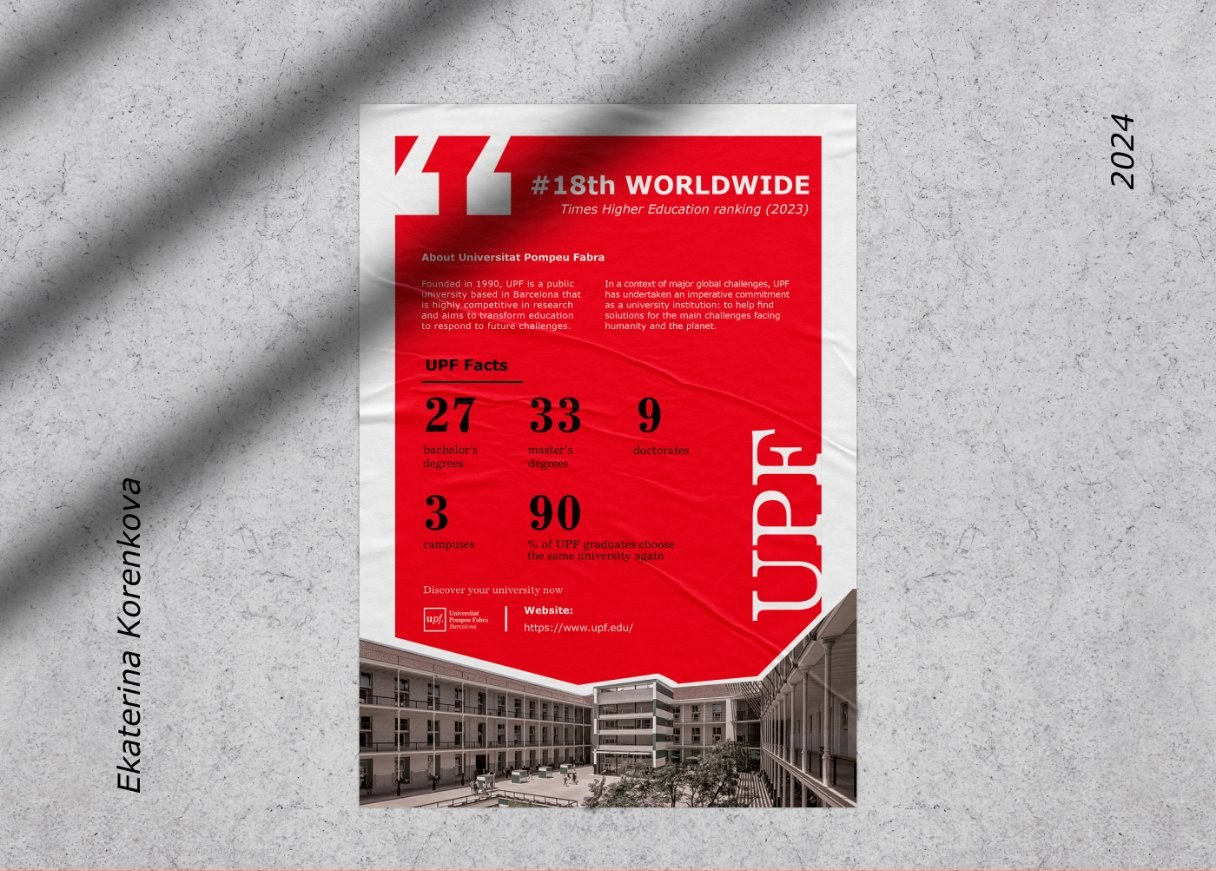
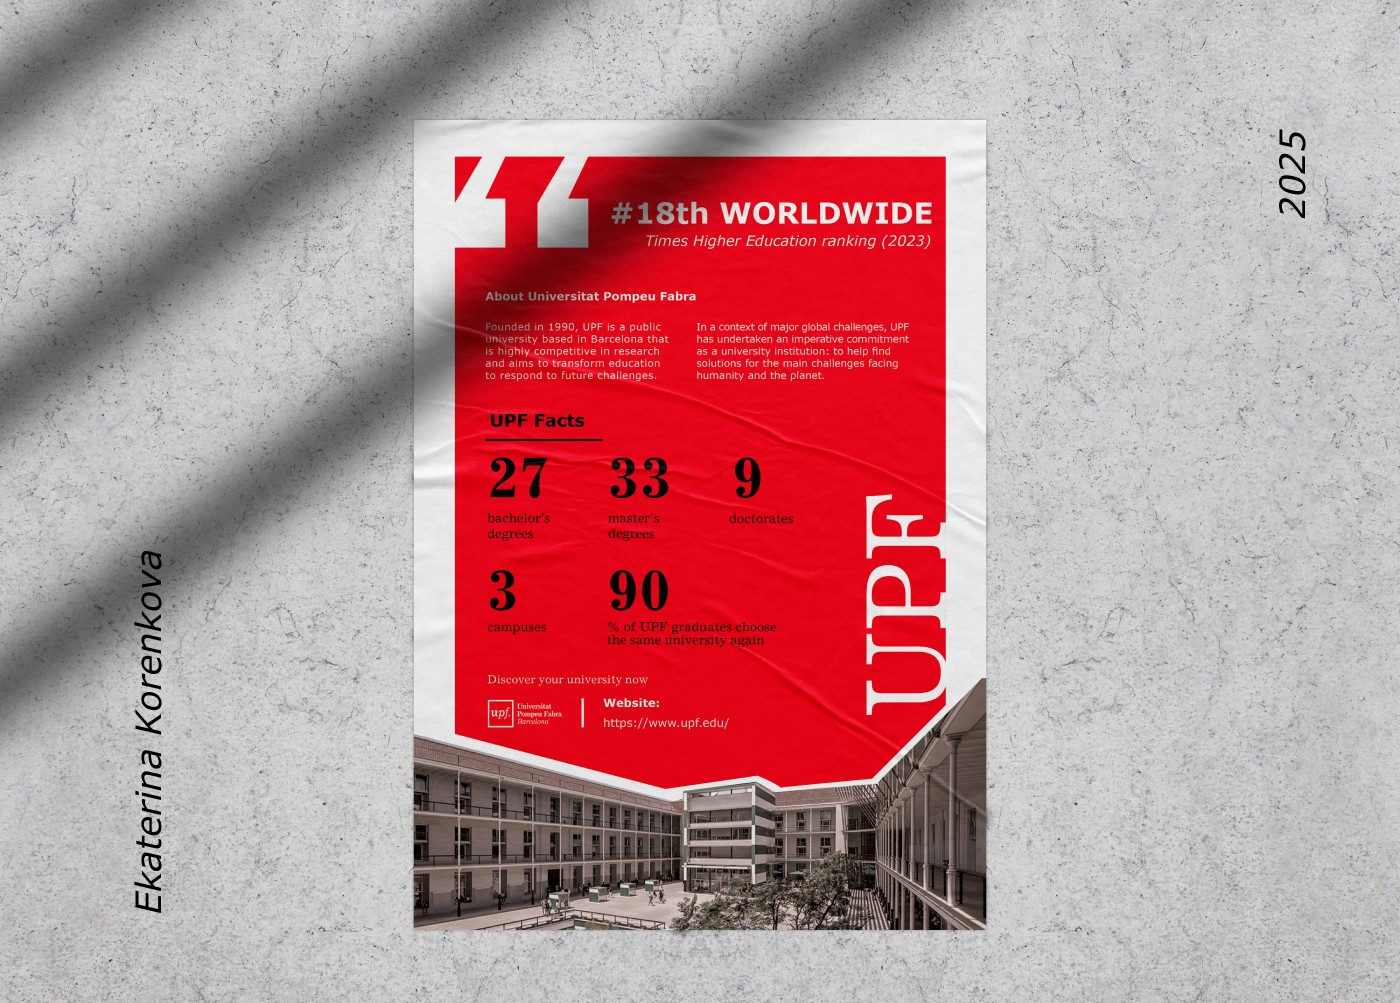
Update case year to 2025 and replace hero image
Claude-Session: https://claude.ai/code/session_01NXXDg6GyFD3ZBfGWdX4qSD

Changed region(s): [[0.0, 0.992, 1.0, 1.0], [0.9062, 0.124, 0.9375, 0.155]]

diff --git a/index.html b/index.html
@@ -369,7 +369,7 @@ var T = {
     chips: ["Redes sociales", "Google Ads", "Meta Ads", "Relaciones públicas", "Copywriting", "Newsletters", "Blog", "Estrategia de marketing", "Analítica", "ROI"],
     labelClients: "Para quién trabajo",
     labelWork: "Proyectos", workTitle: "Trabajos reales para negocios reales",
-    upf: {"cardTitle": "Póster para la Universitat Pompeu Fabra", "cardDesc": "Diseño de un póster que presenta la universidad y la promociona entre futuros estudiantes, fiel a su identidad de marca.", "link": "Ver caso", "kicker": "Caso · Diseño gráfico", "close": "Cerrar", "title": "Un póster universitario para la Universitat Pompeu Fabra", "meta": [["Proyecto", "Póster universitario"], ["Año", "2024"], ["Diseño", "Ekaterina Korenkova"]], "about": "Sobre el proyecto", "obj": "El objetivo de este proyecto era crear una breve ficha informativa sobre la Universitat Pompeu Fabra de Barcelona que aumentara su notoriedad y la promocionara entre posibles estudiantes.", "brand": "Los colores y la tipografía se eligieron según el manual de marca para encajar con su identidad y reforzar el reconocimiento de marca.", "goals": ["Defender la identidad de marca de la universidad", "Atraer a futuros estudiantes"], "type": "Tipografía y color", "colorLabel": "Paleta de color", "refs": "Referencias", "poster": "Póster final", "mock": "Mockups", "ph": "Imagen", "credit": "Diseño de Ekaterina Korenkova, 2024"},
+    upf: {"cardTitle": "Póster para la Universitat Pompeu Fabra", "cardDesc": "Diseño de un póster que presenta la universidad y la promociona entre futuros estudiantes, fiel a su identidad de marca.", "link": "Ver caso", "kicker": "Caso · Diseño gráfico", "close": "Cerrar", "title": "Un póster universitario para la Universitat Pompeu Fabra", "meta": [["Proyecto", "Póster universitario"], ["Año", "2025"], ["Diseño", "Ekaterina Korenkova"]], "about": "Sobre el proyecto", "obj": "El objetivo de este proyecto era crear una breve ficha informativa sobre la Universitat Pompeu Fabra de Barcelona que aumentara su notoriedad y la promocionara entre posibles estudiantes.", "brand": "Los colores y la tipografía se eligieron según el manual de marca para encajar con su identidad y reforzar el reconocimiento de marca.", "goals": ["Defender la identidad de marca de la universidad", "Atraer a futuros estudiantes"], "type": "Tipografía y color", "colorLabel": "Paleta de color", "refs": "Referencias", "poster": "Póster final", "mock": "Mockups", "ph": "Imagen", "credit": "Diseño de Ekaterina Korenkova, 2025"},
     work: { ph: "Imagen del proyecto", title: "Nombre del proyecto", desc: "Descripción breve del proyecto: el reto, lo que se hizo y el resultado.", link: "Ver proyecto", prev: "Anterior", next: "Siguiente" },
     cards: [
       ["Pymes y autónomos", "Barcelona y su área metropolitana"],
@@ -420,7 +420,7 @@ var T = {
     chips: ["Social media", "Google Ads", "Meta Ads", "Public relations", "Copywriting", "Newsletters", "Blog", "Marketing strategy", "Analytics", "ROI"],
     labelClients: "Who I work with",
     labelWork: "Projects", workTitle: "Real work for real businesses",
-    upf: {"cardTitle": "Poster for Pompeu Fabra University", "cardDesc": "A poster design that introduces the university and promotes it among prospective students, true to its brand identity.", "link": "View case", "kicker": "Case · Graphic design", "close": "Close", "title": "A university poster design for Pompeu Fabra University", "meta": [["Project", "University poster"], ["Year", "2024"], ["Design", "Ekaterina Korenkova"]], "about": "About the project", "obj": "The objective of this project was to create a brief factsheet about Pompeu Fabra University in Barcelona that would increase its awareness and promote it among potential students.", "brand": "The colors and typography were picked according to the brand guidelines to match the brand identity and strengthen brand recognition.", "goals": ["Upholding the university's brand identity", "Attracting prospective students"], "type": "Typography and color", "colorLabel": "Color palette", "refs": "References", "poster": "Final poster", "mock": "Mockups", "ph": "Image", "credit": "Design by Ekaterina Korenkova, 2024"},
+    upf: {"cardTitle": "Poster for Pompeu Fabra University", "cardDesc": "A poster design that introduces the university and promotes it among prospective students, true to its brand identity.", "link": "View case", "kicker": "Case · Graphic design", "close": "Close", "title": "A university poster design for Pompeu Fabra University", "meta": [["Project", "University poster"], ["Year", "2025"], ["Design", "Ekaterina Korenkova"]], "about": "About the project", "obj": "The objective of this project was to create a brief factsheet about Pompeu Fabra University in Barcelona that would increase its awareness and promote it among potential students.", "brand": "The colors and typography were picked according to the brand guidelines to match the brand identity and strengthen brand recognition.", "goals": ["Upholding the university's brand identity", "Attracting prospective students"], "type": "Typography and color", "colorLabel": "Color palette", "refs": "References", "poster": "Final poster", "mock": "Mockups", "ph": "Image", "credit": "Design by Ekaterina Korenkova, 2025"},
     work: { ph: "Project image", title: "Project name", desc: "A short description of the project: the challenge, what was done and the result.", link: "View project", prev: "Previous", next: "Next" },
     cards: [
       ["Small businesses and freelancers", "Barcelona and its metropolitan area"],
@@ -471,7 +471,7 @@ var T = {
     chips: ["Соцсети", "Google Ads", "Meta Ads", "PR", "Копирайтинг", "Рассылки", "Блог", "Маркетинговая стратегия", "Аналитика", "ROI"],
     labelClients: "С кем я работаю",
     labelWork: "Проекты", workTitle: "Реальные работы для реального бизнеса",
-    upf: {"cardTitle": "Постер для Universitat Pompeu Fabra", "cardDesc": "Дизайн постера, который представляет университет и продвигает его среди будущих студентов, сохраняя фирменный стиль.", "link": "Смотреть кейс", "kicker": "Кейс · Графический дизайн", "close": "Закрыть", "title": "Университетский постер для Universitat Pompeu Fabra", "meta": [["Проект", "Университетский постер"], ["Год", "2024"], ["Дизайн", "Ekaterina Korenkova"]], "about": "О проекте", "obj": "Цель проекта — создать краткую информационную карточку об университете Pompeu Fabra в Барселоне, которая повысит его узнаваемость и привлечёт потенциальных студентов.", "brand": "Цвета и шрифты подобраны по брендбуку, чтобы соответствовать фирменному стилю и усиливать узнаваемость бренда.", "goals": ["Сохранить фирменный стиль университета", "Привлечь будущих студентов"], "type": "Типографика и цвет", "colorLabel": "Цветовая палитра", "refs": "Референсы", "poster": "Итоговый постер", "mock": "Мокапы", "ph": "Изображение", "credit": "Дизайн: Ekaterina Korenkova, 2024"},
+    upf: {"cardTitle": "Постер для Universitat Pompeu Fabra", "cardDesc": "Дизайн постера, который представляет университет и продвигает его среди будущих студентов, сохраняя фирменный стиль.", "link": "Смотреть кейс", "kicker": "Кейс · Графический дизайн", "close": "Закрыть", "title": "Университетский постер для Universitat Pompeu Fabra", "meta": [["Проект", "Университетский постер"], ["Год", "2025"], ["Дизайн", "Ekaterina Korenkova"]], "about": "О проекте", "obj": "Цель проекта — создать краткую информационную карточку об университете Pompeu Fabra в Барселоне, которая повысит его узнаваемость и привлечёт потенциальных студентов.", "brand": "Цвета и шрифты подобраны по брендбуку, чтобы соответствовать фирменному стилю и усиливать узнаваемость бренда.", "goals": ["Сохранить фирменный стиль университета", "Привлечь будущих студентов"], "type": "Типографика и цвет", "colorLabel": "Цветовая палитра", "refs": "Референсы", "poster": "Итоговый постер", "mock": "Мокапы", "ph": "Изображение", "credit": "Дизайн: Ekaterina Korenkova, 2025"},
     work: { ph: "Изображение проекта", title: "Название проекта", desc: "Краткое описание проекта: задача, что было сделано и результат.", link: "Смотреть проект", prev: "Назад", next: "Вперёд" },
     cards: [
       ["Малый бизнес и предприниматели", "Барселона и агломерация"],
